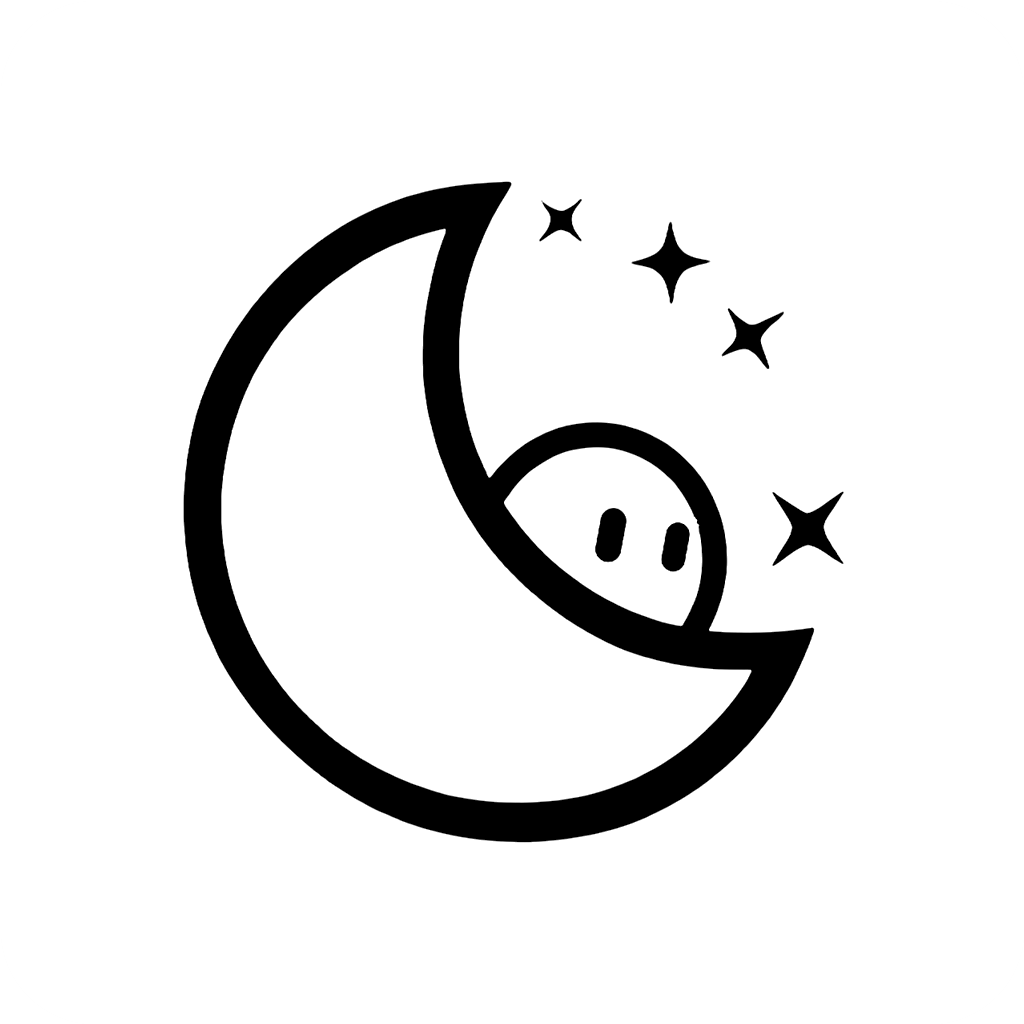
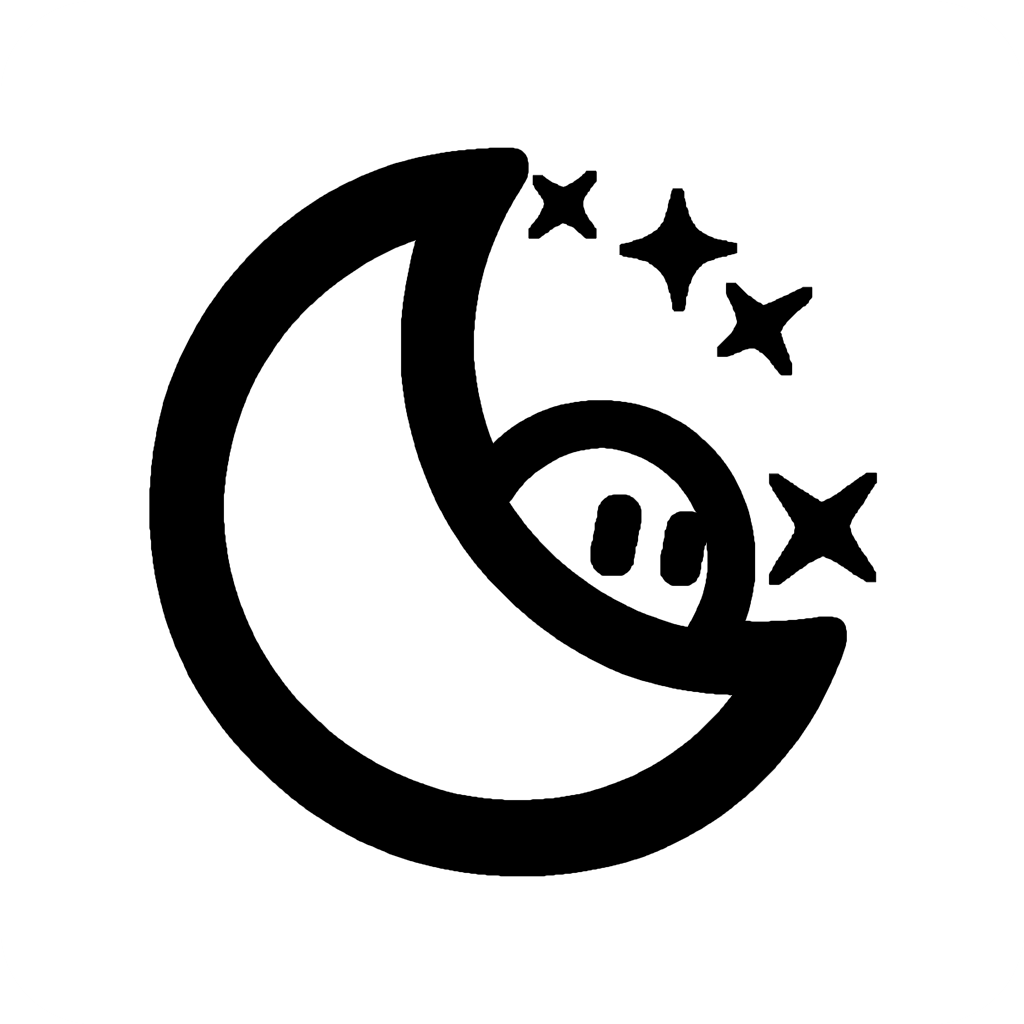
feat(desktop): 换用定稿黑白月亮图标并重建安装器
- 图标改为白底圆角方块 + 黑色弯月笑脸 + 四角星，源图做 4px 轻度加粗保证小尺寸辨识
- icon.ico 含 16/24/32/48/64/128/256 七档；新增深底金色备选 icon-gold.png（不打包）
- 删除 AI 草稿图、旧金色备选与全部中间预览图
- 安装器 371,359,923 字节，SHA-256 40C06B8A…A92E，22 项静默回归全通过
- 文档同步最新基线哈希与图标说明

Changed region(s): [[0.125, 0.125, 0.875, 0.875], [0.2812, 0.2812, 0.3125, 0.3125]]

diff --git a/docs/COMPLETED_WORK.md b/docs/COMPLETED_WORK.md
@@ -124,10 +124,11 @@
 
 ### 5.5 黑白图标接入与重打包（2026-11-10）
 
-- 图标定为**单色黑白**（白色圆角方块 + 黑色月亮线条 + 三颗星），与同行业桌面智能体风格一致；深底金色版本作为备选保留，未打包。
-- 源图经白底转透明、亮度归一化处理，输出 `desktop/app-icon/icon.png`（1024×1024，圆角外透明）与 `desktop/app-icon/icon.ico`（16/24/32/48/64/128/256 七档）。
+- 图标最终采用**黑白单色月亮**（白底圆角方块 + 黑色弯月笑脸 + 四颗四角星），与同行业桌面智能体风格一致；`desktop/app-icon/icon-gold.png` 为深底金色备选版，仅保留不打包。
+- 源图经白底转透明、亮度归一化、4px 轻度加粗处理，输出 `desktop/app-icon/icon.png`（1024×1024，圆角外透明）与 `desktop/app-icon/icon.ico`（16/24/32/48/64/128/256 七档）。
 - `desktop/package.json` 增加 `build.win.icon = app-icon/icon.ico`；图标刻意放在 `desktop/app-icon/` 而非 `desktop/build/`，因为根 `.gitignore` 的 `build/` 规则会把后者排除在仓库之外。
[2 lines of base64/hex data omitted]
+- 中间产物（AI 生成草稿、加粗对比图）已清理，仅保留定稿 `icon.png`/`icon.ico` 与金色备选 `icon-gold.png`。
 
 仍未完成：SignPath 申请与受信签名构建、GitHub Release、干净机器验收、macOS/Linux 安装包。以上均由项目所有者操作或在 P3-04 后续跟踪。
 

diff --git a/docs/UPDATE_PLAN.md b/docs/UPDATE_PLAN.md
@@ -14,7 +14,7 @@ Phase 0～2、P3-00～03 已完成；P3-04 的 Windows 交互安装/卸载闭环
 
 **当前主线仍是 P3-04 发布基线收尾。**
 
[2 lines of base64/hex data omitted]
 2. 开源许可证已选定 **Apache-2.0** 并写入 `LICENSE`；下一步公开 GitHub 仓库并申请 SignPath Foundation 开源签名（均需项目所有者操作）。
 3. 在 GitHub Actions 中完成签名、Release 上传和干净 Windows 机器验收。
 4. Windows 发布基线稳定后进入 P3-05 自动更新；Phase 4、Phase 5 不是生成当前 Windows 安装包的前置条件。

diff --git a/docs/WINDOWS_NSIS_TROUBLESHOOTING.md b/docs/WINDOWS_NSIS_TROUBLESHOOTING.md
@@ -3,7 +3,7 @@
 > 记录日期：2026-11-09
 > 适用范围：AgentKey Pro Windows x64、Electron 43.3、electron-builder 26.18、NSIS 辅助安装向导
 > 当前产物：`release/installer/LunarGold-Setup-0.1.0.exe`
[2 lines of base64/hex data omitted]
 > 当前产物说明：2026-11-09 更名 Lunar Gold 后的重打包产物，22 项静默回归全通过；`6BEF673C…1AD959` 为更名前的 AgentKey Pro 产物
 > 更名说明：同日产品更名为 **Lunar Gold（金月）**，安装标识改为 `LunarGold-Setup-*.exe`、`lunar-gold.exe`、`%LOCALAPPDATA%\Programs\Lunar Gold`，数据目录改为 `~/.lunargold/desktop`。下文出现的 AgentKey 名称、路径与哈希均为当次排障的原始记录，不再回改。
 

diff --git a/desktop/app-icon/README.md b/desktop/app-icon/README.md
@@ -1,3 +1,9 @@
-# 备选图标（深底金色版，未打包）
+# 应用图标
 
-按项目所有者要求保留，供后续视觉调整参考；当前安装器使用 `icon.ico`（黑白版）。
+| 文件 | 说明 |
+|---|---|
+| `icon.png` | 当前正式图标，1024×1024，白底圆角方块 + 黑色月亮线条，圆角外透明 |
+| `icon.ico` | 由 `icon.png` 生成，含 16/24/32/48/64/128/256 七档尺寸，供 `build.win.icon` 使用 |
+| `icon-gold.png` | 深底金色备选版，用于对比与后续视觉调整，不参与打包 |
+
+生成规则：源图白底转透明、亮度归一化、4px 轻度加粗保证小尺寸可辨识，再合成 18.5% 圆角底板。
